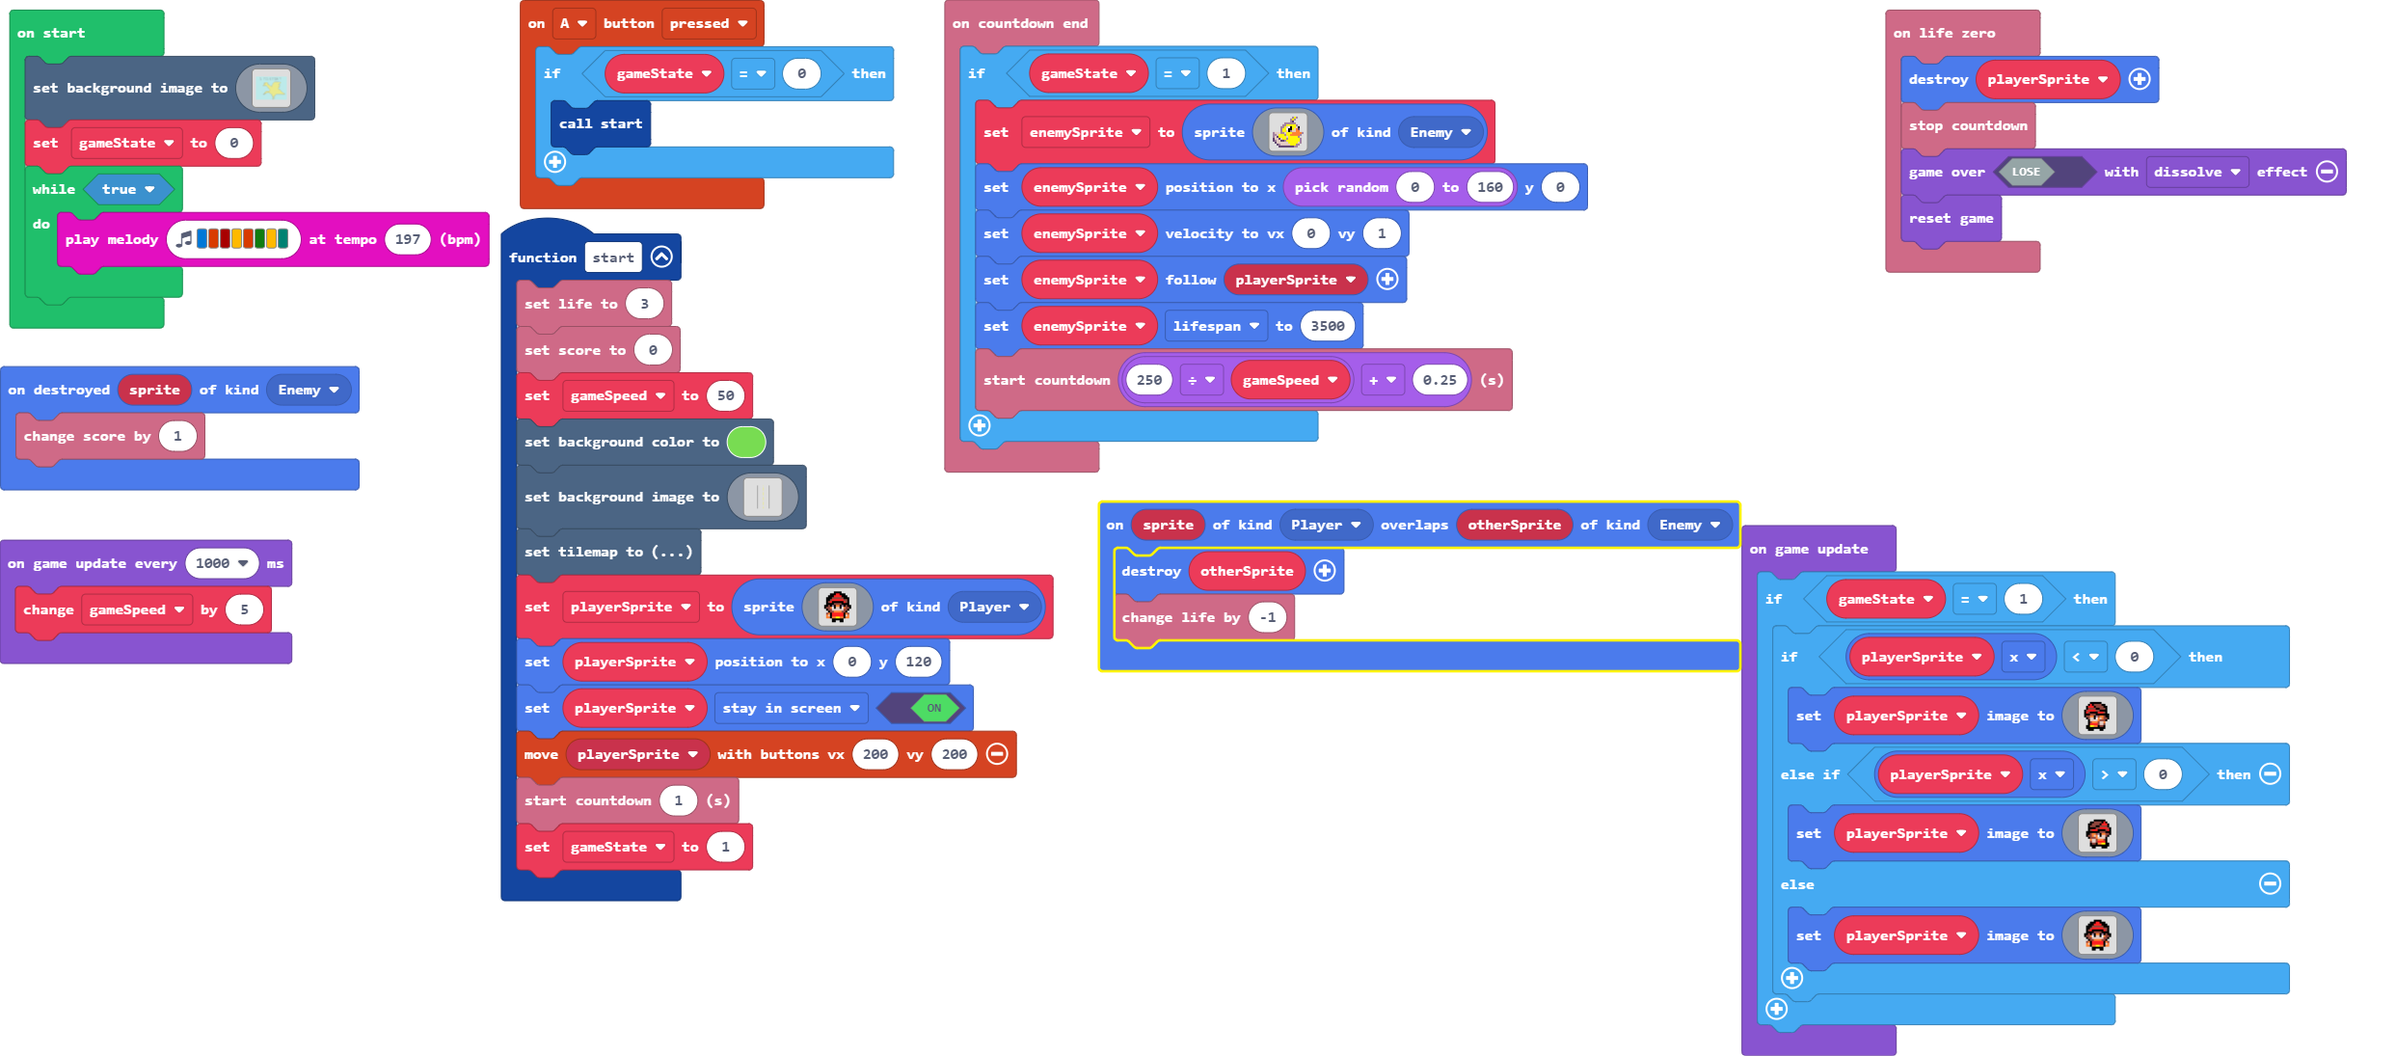
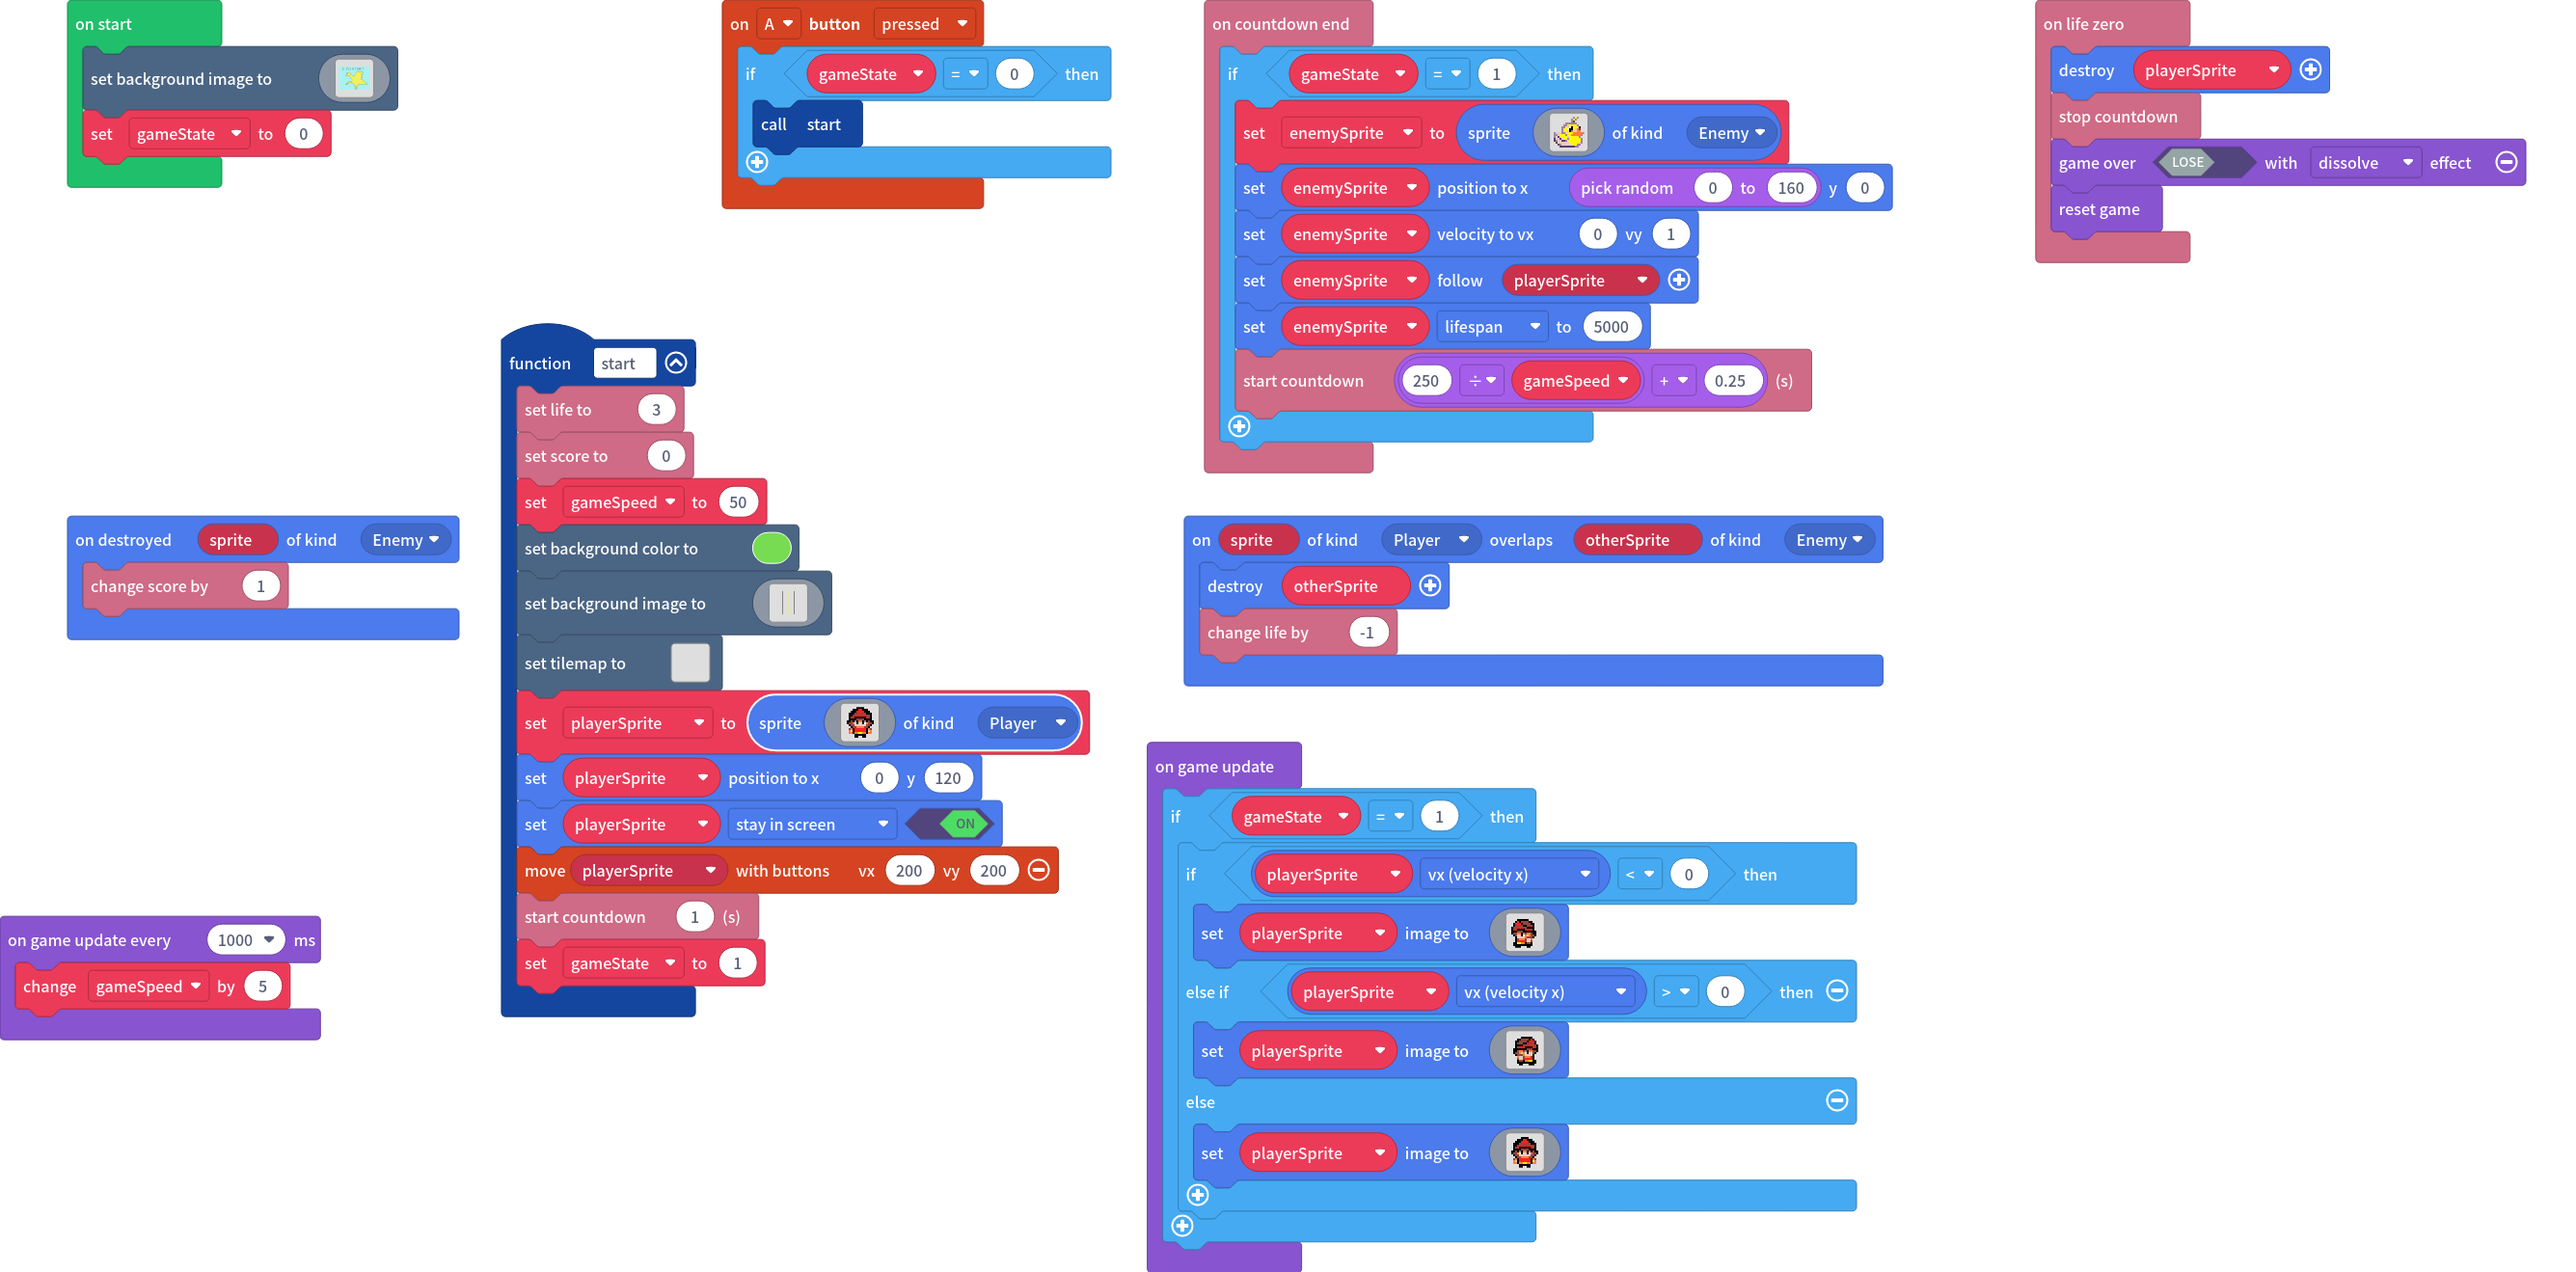
Remove melody to fix sprite issue

diff --git a/main.ts b/main.ts
@@ -322,12 +322,9 @@ scene.setBackgroundImage(img`
     9999999999999999999999999999999999999999999999999999999999999999999999999999999999999999999999999999999999999999999999999999999999999999999999999999999999999999
     `)
 gameState = 0
-while (true) {
-    music.playMelody("E B C5 A B G A F ", 197)
-}
 game.onUpdate(function () {
     if (gameState == 1) {
-        if (playerSprite.x < 0) {
+        if (playerSprite.vx < 0) {
             playerSprite.setImage(img`
                 . . . . . . . . . . . . . . . . 
                 . . . . f f f f f f . . . . . . 
@@ -346,7 +343,7 @@ game.onUpdate(function () {
                 . . f f f f f f f f f f . . . . 
                 . . . f f f . . . f f . . . . . 
                 `)
-        } else if (playerSprite.x > 0) {
+        } else if (playerSprite.vx > 0) {
             playerSprite.setImage(img`
                 . . . . . . . . . . . . . . . . 
                 . . . . . . f f f f f f . . . . 
